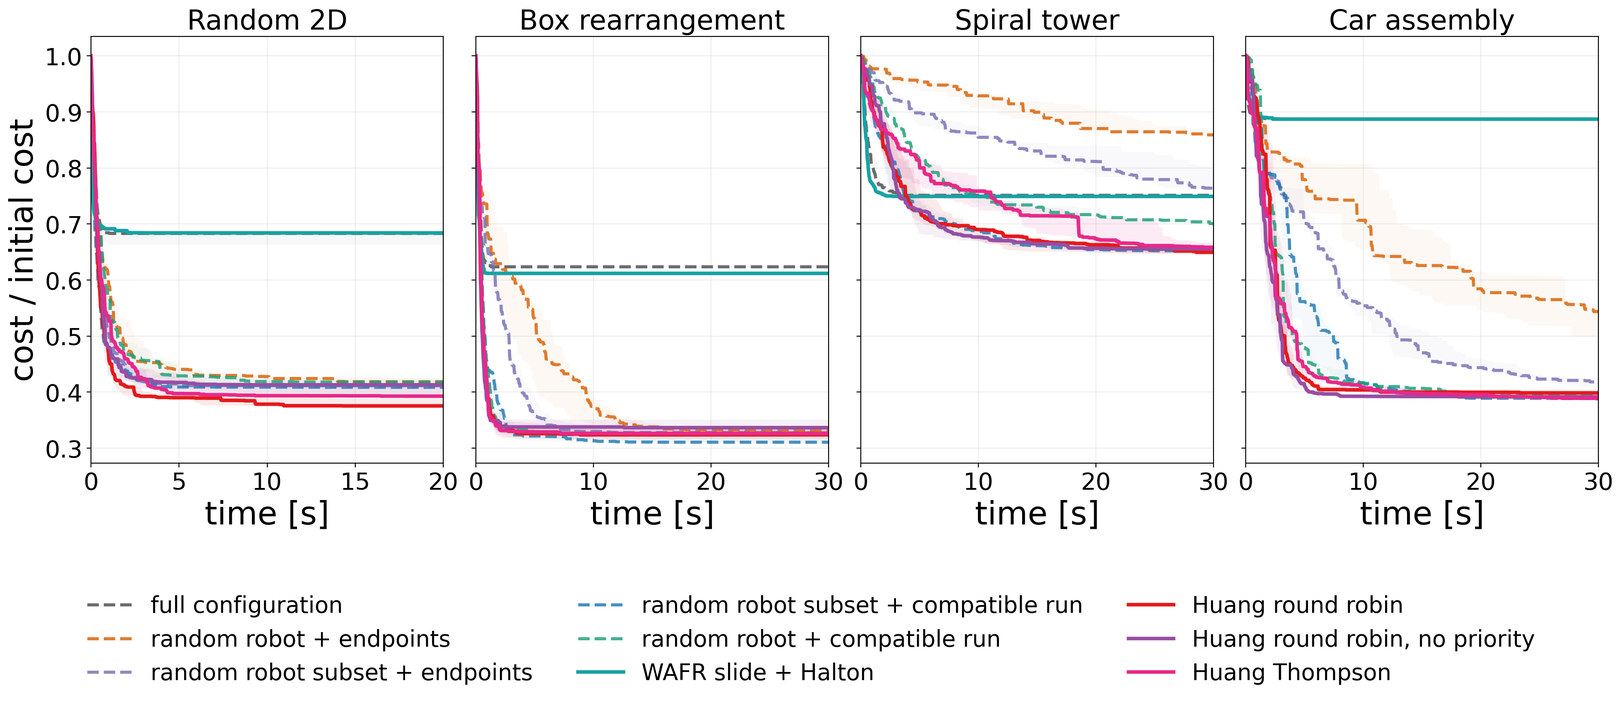
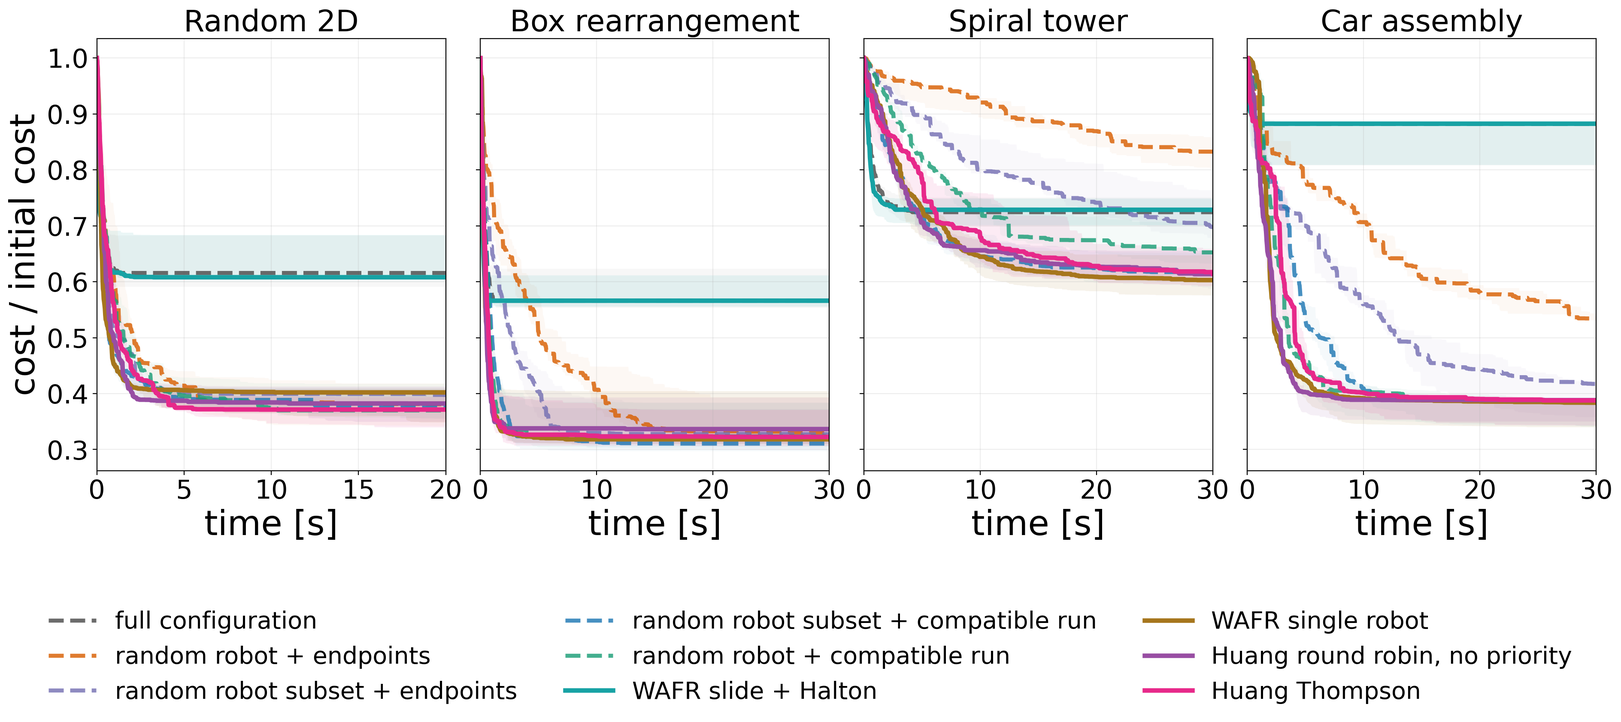
More or less final shortcutting post

diff --git a/_posts/2026-09-25-multirobot-shortcutting.md b/_posts/2026-09-25-multirobot-shortcutting.md
@@ -11,51 +11,56 @@ categories: path-planning
 In multi-robot path planning, it is often relatively easy to find a bad path, since we can just move robots out of the way if we control all of them.
 It is usually much harder to find good paths. So what we do is find a bad path, and then postprocess it into a good path.
 This is standard practice in path planning, and is called (partial) shortcutting.
-It is unclear how to best apply this to multi-robot multi-goal path planning, as we want to shortcut over the fully constrained parts.
+It is unclear how to best apply this to multi-robot multi-goal path planning, because we need to shortcut over the fully constrained parts as well.
 </p>
 
-This is more or less a writeup of the work I did recently for the [multi-robot multi-goal multi-modal path planning](/mrmg-planning), respectively the [multi-robot assembly planning](/wrap) work.
-I decided that it might be interesting to have a standalone post that focusses on the shortcutting part, and explain it a bit in more detail, and sets up a bit of a benchmark, where people could build upon{% include sidenote.html text='And I ended up doing better analysis than before, and tested a few small new ideas.'%}.
+This is more or less a writeup of the work I did recently for the [multi-robot multi-goal multi-modal path planning](/mrmg-planning) (which was published at WAFR this year), respectively the [multi-robot assembly planning](/wrap) work (where I improved a bit upon the initial implementations of the shortcutters we came up with for the initial work).
+
+I decided that it might be interesting to have a standalone post that focusses on the shortcutting part, and explain it a bit in more detail what it does and why its good.
+The other goal I have with this post is setting up a benchmark, where people could build upon{% include sidenote.html text='And I ended up doing better analysis than before, and tested a few small new ideas.'%}.
 This would benefit me since the paths that I would be getting in several applications would be better faster.
 
-In the following, I am not going to explain the background of shortcutting, and how it works, this can be seen e.g., [here](/partial-shortcutting).
+In the following, I am not going to explain how basic shortcutting works. This can be found in various places, e.g., [here](/partial-shortcutting).
 
 # Shortcutting for multi-robot multi-goal paths
  
 As mentioned above, I am interested in multi-robot multi-goal multi-modal path planning, and as part of it in post-processing of those paths.
 The path planning side of it boils down to finding a feasible path in a high-dimensional space.
-This space has a special structure: it is a tensor product of all the separate single robot configuration spaces, i.e.
+This space has a special structure: it is a cartesian product of all the separate single robot configuration spaces, i.e.
 
 $$
 \mathcal{Q} = \mathcal{Q}_1 \times \mathcal{Q}_2 \times ... \times \mathcal{Q}_N
 $$
 
-This can and should be used to plan more effectively, but we are for now not really doing that, since if we ignore it, we can easily get optimality guarantees by using existing planners.
+This can and should be used to plan more effectively, but we are for now not really doing that.
+The nice thing about ignoring the structure, and just treating everything as a single robot is that we can easily get optimality guarantees by using existing planners.
 
-In the following, we are then going to treat the shortcutting problem as a setting where we shortcut a given initial path with equality constraints (i.e. the end points of each mode).
-This means that we still need to keep satisfying these equality constraints, i.e., our path is required to go through certain parts of the cofiguration space. 
+In the following, we are then going to treat the shortcutting problem as a setting where we shortcut a given initial path with equality constraints (i.e. the end points of each 'mode') only on parts of its dimensions.
+Any changed path still needs to satisfy these equality constraints, i.e., our path is required to go through certain parts of the cofiguration space. 
 
 Below, we see these constraints illustrated{% include sidenote.html text='Taken from [the paper](/mrmg-planning).'%}:
 
 <img src="{{ site.url }}/assets/multi-robot-shortcutting/constraint-illustration.png" style="display:block; width:70%; margin:0 auto;">
 
-Here, the modes of the robots are shown with the grey boxes, and if a box ends, we require a robot (one of the disks here) to be in a very specific position (e.g., in order to pick something up, or for example to do a point-weld).
+Here, the modes{% include sidenote.html text='A mode of a robot is effectively the state that it is currently in, e.g. "grasping a box" or "setting down a box somewhere".'%} of the robots are shown with the grey boxes, and if a box ends, we require a robot (one of the disks here) to be in a very specific position (e.g., in order to pick something up, or for example to do a point-weld).
 The red dashed lines show the points at which we have a mode switch of any robot (and thus the overall mode changes).
 
-The key realization is that only parts of the tensor product that makes up the composite configuration space is constrained:
+The key realization is that only part of the cartesian product that makes up the composite configuration space is constrained:
 
 $$
 \mathcal{Q}_\text{constrained} \subseteq \mathcal{Q}_1 \times q_2 \times ... \times \mathcal{Q}_N.
 $$
 
-With this insight, we can see that we can still freely shortcut large parts of our full composite space, just not the constrained robot coordinates.
+So we can still freely shortcut large parts of our full composite space, just not the constrained robot coordinates.
 This means that we can do:
 
-- As a baseline, shortcutting in the full configurations space. This means that we can never shortcut over mode-boundaries/the equality constraints (again, since we have a hard equality constraint _where_ we need to be with the mode switching robot).
-- As next step up, we can choose single robots at random, and shortcut its dimensions. In here, we also need to make sure that the indices we choose to linarly interpolate between are in the same mode.{% include sidenote.html text='This is what we originally did in the [multi-robot multi-goal multi-modal path planning](/mrmg-planning) work. This has since been replaced though, with something we will see below.'%} But that already means that we can shortcut longer paths compared to considering all robots at the same time.
-- Instead of single robots, we can also choose groups of robots to shortcut. The rest is the same, but we now need to make sure that all robot modes do not change.
+- As the simplest baseline (called **'full configuration'** below), shortcutting in the full configurations space. This means that we can never shortcut over mode-boundaries/the equality constraints (again, since we have a hard equality constraint _where_ we need to be with the mode switching robot).
+- As next step up (called **'random robot'** below), we can choose single robots at random, and shortcut its dimensions. In here, we also need to make sure that the indices we choose to linarly interpolate between are in the same mode.{% include sidenote.html text='This is what we originally did in the [multi-robot multi-goal multi-modal path planning](/mrmg-planning) work. This has since been replaced though, with something we will see below.'%} But that already means that we can shortcut longer paths compared to considering all robots at the same time.
+- Instead of single robots, we can also choose groups of robots to shortcut (called **'random robot subset'** below). The rest is the same, but we now need to make sure that all robot modes do not change.
 
-In the approaches above, the simple implementations of shortcutting are 'choosing a two random indices of the path, and hoping that the mode is the same'. Instead, we can also sample the mode that we shortcut directly, and then choose the indices only on that part of the path. 
+In the approaches above, the simple implementation of shortcutting is 'choose two random indices of the path, and hoping that there is no mode switch in between' (denoted **'+ endpoints'** below). Instead, we can also sample the mode that we shortcut directly, and then choose the indices only on that part of the path (denoted **'+ compatible run'** below). 
+
+#### Baselines
 
 I am going to give details on the experiments that we do below in the experiments section, but for now, here's some plots, showing how each approach does on a variety of problems, for shortcutting only (i.e., not feeding the paths back into the planner again).
 These plots for selected scenarios{% include sidenote.html text='More scenarios [TODO](here).'%} show time on the x-axis, and the cost of the path on the y-axis:
@@ -68,8 +73,9 @@ These plots for selected scenarios{% include sidenote.html text='More scenarios 
 </details>
 
 The main thing to take away here is that it is clearly very useful to just sample the mode to shortcut directly.
-Compared to what we did in the WAFR paper, this surprised me a bit, as I was assuming that the rejections of invalid index-pairs (i.e. crossing mode boundaries) was more or less free{% include sidenote.html text='Honestly, seeing these plots here, it is almost embarassing to have used the naive version in the paper originally.'%}. 
-But this is explainable: If we just sample endpoints randomly, we have a relatively low probability of actually sampling both points in a constant mode part, and this probability decreases with the number of robots, and with the number of different tasks that we do{% include sidenote.html text='So effectively, we just have very bad chances of finding a shortcut that we can even attempt.
+Compared to what we did in the WAFR paper, this surprised me: I was assuming that the rejections of invalid index-pairs (i.e. pairs that cross mode boundaries) is more or less free{% include sidenote.html text='Honestly, seeing these plots here, it is almost embarassing to have used the naive version in the paper originally.'%}. 
+
+But this is explainable: If we just sample endpoints randomly, we have a relatively low probability of actually sampling both points in a constant mode part (as shown in the data below), and this probability decreases with the number of robots, and with the number of different tasks that we do{% include sidenote.html text='So effectively, we just have very bad chances of finding a shortcut that we can even attempt.
 And because of how I implemented things in the planner, there is a budget of attempts that can be made - thus if we waste them with too many invalid attempts, we end up with a worse method.'%}.
 
 <details class="results-details">
@@ -98,7 +104,7 @@ And because of how I implemented things in the planner, there is a budget of att
 
 To me the other surprising thing here is how good full configuration shortcutting is, and especially how quickly it leads to improvements, especially given how little of the attempts are actually feasible due to crossing modes.
 
-One last thing to point out is that even though full configuration shortcutting is decreasing very fast, it also does not converge to the same best cost as the others, since we will always keep the waypoints that coincide with the mode-switches.
+One last thing to point out is that even though full configuration shortcutting is improving the path very fast initially, it also does not converge to the same best cost as the others, since we will always keep the waypoints that coincide with the mode-switches.
 
 However! As said above already, these plots show pure 'offline' shortcutting.
 In the context of the multi-robot planners, this is not the most realistic setting, as we insert the shortcuts back into the tree/roadmap, and continue working with the new plans.
@@ -106,16 +112,14 @@ This changes the plots:
 
 <img src="{{ site.url }}/assets/multi-robot-shortcutting/baseline-four-environments-online.png" style="width:100%;">
 
-Here, I added the planner without shortcutting as baseline comparison.
-In the experiments, we make sure that all seeds and rng-sources are the same for all runs, i.e., the only thing changing is the seed given to the shortcutters.
-
 <details>
 <summary>Plots with a logarithmic time axis</summary>
 <img src="{{ site.url }}/assets/multi-robot-shortcutting/baseline-four-environments-online-logx.png" alt="Baseline online shortcutting comparison with a logarithmic time axis" style="width:100%;">
 </details>
 
+In these plots, I added the planner without shortcutting as baseline comparison to show that shortcutting is actually useful.
 
-And this shows that the difference is not actually that big!
+And this shows that the difference is not actually that big!{% include sidenote.html text='So luckily saving face a bit for me.'%}
 We see that the algorithm that is best in the offline setting is also best in the online setting, but it is all much closer than before.
 Now, this is partially due to a relatively small shortcutting budget, and partially due to the fact that the reinsertion of the plans into the planner dampens some of the bigger differences from the pure offline setting.
 
@@ -124,15 +128,17 @@ We could optimize our shortcutting approach for either of these settings, but I 
 # Prior work
 There is not much work on multi-robot multi-goal plan-postprocessing, so I am just going over a couple of things that I used for ideas and inspiration.
 
-- Partial shortcutting: I wrote about this [in the post here](/partial-shortcutting) a bit. The core idea is that instead of just sampling indices on the path, and linearly interpolating them, we sample indices on the path and (a subset of) dimensions which we linearly interpolate. The other dimensions are kept as they were before (i.e., the path is not replaced for those dimensions). This carries over very naturally to the multi-robot case, as we can just sample a subset of robots, or a single robot and only shortcut that one. This is what we arleady do. 
-- There was [some work presented at WAFR this year on shortcutting](https://algorithmic-robotics.org/papers/WAFR_2026_Final_66.pdf): It was slightly more on the theoretical side, but also suggested some approach that we'll see below is surprisongly similar to something I converged to below. The core idea is that we fix the length of the shortcut we do, and move this window over our path, and then repeat this with a smaller window. After, we fall back to shortcutting with indices coming from a halton sequence. The paper is cool, and worth looking at just for the plots alone already. They do unfortunately not look at partial shortcutting at all, which is what I usually do.
-- At IROS '25, there was [a paper on multi-robot shortcutting](https://philip-huang.com/mr-shortcut/) from Huang et al. They propose three approaches, and suggest that a round-robin style application of those, repsectively estimating online which method has the highest probability of giving you a better path, works best.
+- Partial shortcutting: I wrote about this [in the post here](/partial-shortcutting) a bit. The core idea is that instead of just sampling indices on the path, and linearly interpolating them, we sample indices on the path and (a subset of) dimensions which we linearly interpolate. Crucially, the other dimensions are kept as they were before (i.e., the path is not replaced with the straight line interpolation for those dimensions). This carries over very naturally to the multi-robot case, as we can just sample a subset of robots, or a single robot and only shortcut that one. This is what we already introduced above. 
+- There was [some work presented at WAFR this year on shortcutting](https://algorithmic-robotics.org/papers/WAFR_2026_Final_66.pdf): It was slightly more on the theoretical side, but also suggested some approach that we'll see below is surprisingly similar to something I converged to below. The core idea is that we fix the length of the shortcut we do, and move this window over our path, and then repeat this with a smaller window. After, we fall back to shortcutting with indices coming from a Halton sequence. The paper is cool, and worth looking at just for the plots alone already. They do unfortunately not look at partial shortcutting at all, which is what I usually do.
+- At IROS '25, there was [a paper on multi-robot shortcutting](https://philip-huang.com/mr-shortcut/) from Huang et al: They propose three approaches, and suggest that a round-robin style application of those, respectively estimating online which method has the highest probability of giving you a better path, works best.
 
 I implemented a couple of those algorithms, and compared them against our baseline.
 Since none of the approaches are presented such that they apply to the multi-robot multi-goal setting, we make some adjustments{% include sidenote.html text='In the plots above we can already see that there is effectively no point on running the shortcutters over the full path at once -- the planners that explicitly take into account where we can actually shortcut are always better than their sibling versions that don\'t.'%}:
 
-- The WAFR shortcutter shortcuts full configuration modes directly, and is the same otherwise. 
-- The meta algorithms from Huang, round-robin and thompson sampling do:
+- We test two versions for the WAFR shortcutter:
+  - one that shortcuts full configuration modes directly, and is the same otherwise, and
+  - one that takes the same endpoint sequences from the paper, but does that for single robots that are sampled randomly. 
+- The meta algorithms from Huang, round-robin and Thompson sampling do:
   - Sample full configurations and compatible modes, and within the modes, we sample endpoints uniformly.
   - Sample single robots, and compatible modes, and within the modes, we sample endpoints uniformly.
 
@@ -158,15 +164,17 @@ and online:
 </details>
 
 We see again that the full configuration shortcutting from the WAFR paper has the same issues as the simpler full configuration shortcutting.
-The only other thing we can see here is gaain that in the online setting, the differnces are not very big between the different algorithms.
-In the offline setting, the round-robin style approaches tend to perform best, but the full configuration shortcutting still hast the fastest initial decrease of the cost.
 
-# Improving upon the baseline
+Generally, all the things are very similar to each other now as long as we do direct sampling of the modes that we shortcut, and not random endpoint sampling.
+In the offline setting, the round-robin style approaches tend to perform slightly better that others, but the full configuration shortcutting still hast the fastest initial decrease of the cost.
+The other thing we can see here is again that in the online setting, the differences are not very big between the different algorithms.
+
+# Improving upon the baseline and prior work
 We have seen that the version that randomly chooses a mode for a robot is doing best out of the non-meta-algortithms we have briefly described above.
-Now, we can try to improve upon the things we are already doing.
+Now, we can try to improve upon the things we are already doing, and take some inspiration from the other introduced methods.
 
 We can not improve what we can not measure.
-So we start by measuring and generating some statistics from the random-robot subset + compatible run{% include sidenote.html text='These numbers are obiously going to be different for all methods, but we are just going to assume that this is good enough information for now.'%}:
+So we start by measuring and generating some statistics from the random-robot subset + compatible run{% include sidenote.html text='These numbers are obviously going to be different for all methods, but we are just going to assume that this is good enough information for now.'%}:
 
 - How much time do we spend checking invalid edges, and how much time do we spent verifying edges that are actually collision free
 - Which of the shortuts that we do actually ends up in the final path.
@@ -196,7 +204,7 @@ So we start by measuring and generating some statistics from the random-robot su
 From this data, we see that 
 
 - Not that many shortcuts end up in the final path: We spend a lot of time 'overwriting' previously checked edges.
-- We spend much more time verifying valid edges, than rejecting invalid proposals. Rejecting invalid proposals is fast! I want to emphasize this again: Taking this and the previous point together means that we spend a lot of time validating shortcuts that do not do anything in the end!
+- We spend much more time verifying valid edges, than rejecting invalid proposals. Rejecting invalid proposals is fast! I want to emphasize this again: Taking this and the previous point together means that we spend a lot of time validating shortcuts that do not do anything in the end!{% include sidenote.html text='Technically, they still do something because they alter the path, which leads to other shortcuts being feasible. But they do not contribute directly in the end.'%}
 - the best couple shortcuts are responsible for a big part of the path improvement.
 
 So effectively, what we should try to do is 
@@ -215,14 +223,10 @@ In the multimodal setting, this could happen due to various reasons:
 Both are not what we want!
 So with this in mind, we can try to design an algortihm that
 
-- constructs shortcuts that are successful, and do not spend time being rejected
 - does shortcuts that are long, since those are more likely to end up in the final path
 - shortcuts in modes that still have potential to be improved.
 
 But we also want to make sure that we do not try the same shortcut time and time again.
-In the following, we will try to do two things:
-- Trying to predict shortcuttable modes
-- do long shortcuts
 
 #### Trying to predict shortcuttable modes
 
@@ -233,7 +237,7 @@ So what we settle for is updating our belief online based on attempted shortcuts
 
 We do this by taking two signals into account:
 - How often we previously successfully shortcutted this robot/mode combination, and
-- an estimation of how much further we could reduce the cost, by assuming that we could fully straithen the path.
+- an estimation of how much further we could reduce the cost, by assuming that we could fully straigthen the path.
 
 Using this, we compute a score 
 
@@ -244,6 +248,7 @@ $$
 Here, an arm $$a$$ is a robot (or robot group) and a compatible mode interval, $$g_a$$ is the estimated remaining cost reduction, $$A_a$$ and $$P_a$$ count accepted and proposed shortcuts, and $$U_a$$ counts how often the arm was selected. The gain floor is a small fraction of the mean gain and prevents arms with no estimated gain from being ignored completely.
 
 We rank all possible arms using this score and sample shortcut endpoints uniformly within the highest-ranked interval.
+This approach can also be extended to dealing with subsets of robots, but I am not writing this out here.
 
 #### A principled approach to long shortcuts
 
@@ -251,7 +256,7 @@ The other thing we want to do is a sensible approach to long shortcuts: An idea 
 
 - We attempt a full shortcut of a mode for a robot
   - If we are successful, we are done with this mode for this robot
-  - If not, we split the mode where the first shortcut was found, and add these two possible shortcuts to a queue of shortcuts that we attempt.
+  - If not, we split the mode at the index where the first shortcut was found, and add these two possible new ranges (start to index, and index to end) to a queue of shortcuts that we attempt.
 
 We do this for a certain number of splits, and then do a fallback strategy in this approach.
 A fallback could e.g., be the method described above, or could also be just random sampling of endpoints within a mode.
@@ -261,18 +266,39 @@ This will have some implications when running this in the planner, where we rest
 
 # Experiments
 
-In the following, we will always show normalized cost improvement, and show a (more or less) representative sample of 4 environments.
+In the following, we will always show normalized cost improvement, and show a (more or less) representative sample of four scenarios.
 The rest of the plots will be available as well though.
+
+The cost we are minimizing is an approximation of the makespan of the path, regularized with the path-length.
+We do this regularization in order to try to guide the plans out of the large nullspace that the makespan paths have:
+
+$$
+C(\pi) = \sum_i \left(\max_r ||q_{i+1}^r - q_i||_2 + 0.01 \sum_r ||q_{i+1}^r - q_i||_2\right)
+$$
 
 We are going to do two types of experiments, which we have already shown above: 
 - we will be running shortcutting on a dataset of paths that we generate 'offline', and measure how much we improve the initial cost of the path.
 - We are also going to be running the shortcutters as part of the planning loop, in order to see how they change the planning performance.
 
 The setup for both these things is vailable in the repository [here](TODO).
-We heavily build upon the github repository from the [multi-robot planning work](mrmg-planning), and generate initial paths for multiple environments from there.
+We heavily build upon the github repository from the [multi-robot planning work](/mrmg-planning), and generate initial paths for multiple environments from there.
+
+In the experiments, we make sure that all seeds and rng-sources are the same for all runs, i.e., the only thing changing is the seed given to the shortcutters.
+The curves we show below (and showed previously) first take the median over three shortcutting seeds for each of three initial paths, and then the median over those three path-level curves. The shaded range spans the minimum to maximum of the three path-level medians.
+
+The methods we are comparing are
+
+- random robot + compatible run
+- random robot subset + compatible run
+- WAFR single robot
+- Huang round robin w/o prioritizzation
+- tree + gain
+- tree + group gain
+- gain only
+- our round robin
 
 #### Offline shortcutting
-For offlien shortcutting, we run a planner, and take the initial path that it produces, and feed this path to all shortcutting algorithms.
+For offline shortcutting, we run a planner, and take the initial path that it produces, and feed this path to all shortcutting algorithms.
 
 <img src="{{ site.url }}/assets/multi-robot-shortcutting/experiments-eight-methods-offline.png" alt="Offline comparison of the selected shortcutting methods" style="width:100%;">
 
@@ -288,7 +314,7 @@ Tree + group gain, and our own round robin version seems to be more or less the 
 #### Online shortcutting
 For online shortcutting, we simply run the planner in its optimizing mode, which calls the shortcutter whenever a new plan that improves upon the previous cost is found.
 
-The new shortcutted path is then fad back into the plannner again, to refine the tree.
+The new shortcutted path is then fed back into the plannner again, to refine the tree.
 
 <img src="{{ site.url }}/assets/multi-robot-shortcutting/experiments-eight-methods-online.png" alt="Online comparison of the selected shortcutting methods" style="width:100%;">
 
@@ -298,8 +324,8 @@ The new shortcutted path is then fad back into the plannner again, to refine the
 </details>
 
 **How much time should the shortcutters get in the planner?**
-In all the oneline plots above, we used the default version of how many shortcutting invocations we do.
-However, in many settings, this results in only ~5% of the time spent shortcutting.
+In all the online plots above, we used the default version of how many shortcutting invocations we do.
+However, in many settings, this results in only ~5% of the total planning time spent shortcutting.
 To a certain extent, this explains why the online results were relatively similar for all shortcutters: They simply ould not actually spend enough time to show where they were better, if the difference was not already quite big.
 
 I was wondering if we should allocate more time then.
@@ -313,8 +339,30 @@ I was wondering if we should allocate more time then.
 
 # Take away?
 
+I think with the results that we have seen now, it is hard to point to one specific shortcutting approach that is the one you should be using, as they are all pretty similar:
 - When running the shortuctters as part of the planning loop, it does not matter too much what you do as long as you sample the modes directly.
 - When running the planners offline as pure post processing roudn robin seems to be a decent idea.
 
-If you found this work helpful, please cite ...
+My personal take away is that the only thing that you really need to be soing is sampling mode-compatible shortcuts directly.
+The rest does not really matter too much, and thus, the approach I will be using as standard version is the simplest one.
+To me, this is the 'Tree + group gain' shortcutter.
 
+#### Future work
+
+There are some things that I omitted here for now: 
+- I tested only up to 4 robots. The conclusion might change if we run this on the same scaling study that I did in the WAFR paper.
+- I only tested this with Bidirectional RRT as planner. Some conclusions might change for other planners, both for the offline, and for the online settings.
+
+#### Citation
+
+If you found this work helpful, please reach out and let me know, and cite our [multi-robot planning paper](/mrmg-planning), or this blog post, depending on what you found helpful.
+
+```
+@article{hartmann2026shortcutting,
+  title = {Shortcutting multi-robot multi-goal plans},
+  author = {Valentin N. Hartmann},
+  year = {2026},
+  month = {October},
+  url = {https://vhartman.github.io/multi-robot-shortcutting/}
+}
+```
